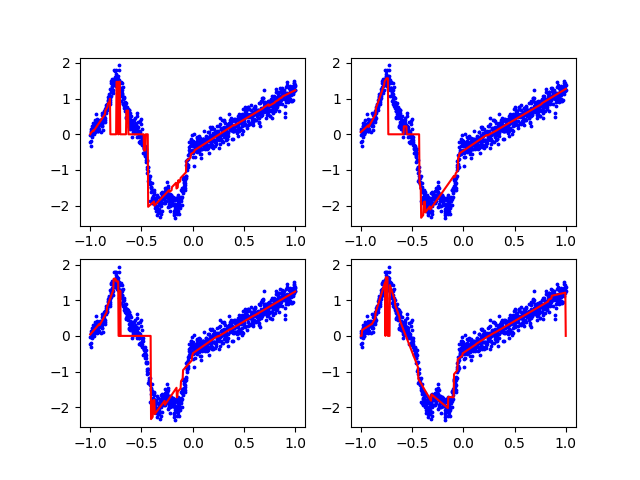
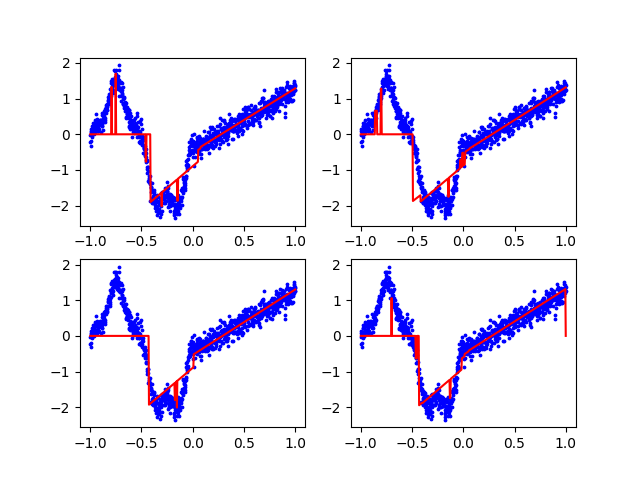
fix n_intial_rules

diff --git a/suprb/suprb.py b/suprb/suprb.py
@@ -186,6 +186,7 @@ class SupRB(BaseRegressor):
         if self.n_initial_rules > 0:
             if self._catch_errors(self._discover_rules, X, y, self.n_initial_rules):
                 return self
+            self._log_to_stdout(f"{len(self.pool_)} initial rules discovered before first step.")
 
         # Main loop
         for self.step_ in range(self.n_iter):
@@ -244,9 +245,18 @@ class SupRB(BaseRegressor):
 
         self._log_to_stdout(f"Generating {n_rules} rules", priority=4)
 
-        # Update the current elitist
-        self.rule_discovery_.elitist_ = self.solution_composition_.elitist()
 
+        # Update the current elitist
+        # try catch block needed for n_initial_rules as elitist is None Type without it
+        elit = None
+        try:
+            elit = self.solution_composition_.elitist()
+        except AttributeError:
+            pass
+        if elit is None:
+            elit = self.elitist_ #Initially dummy elitist: Solution([0, 0, 0], [0, 0, 0], ErrorExperienceHeuristic(), PseudoBIC())
+
+        self.rule_discovery_.elitist_ = elit
         # Update the random state
         self.rule_discovery_.random_state = self.rule_discovery_seeds_[self.step_]
 

diff --git a/examples/example_1_nsga2_infogain.py b/examples/example_1_nsga2_infogain.py
@@ -67,7 +67,7 @@ if __name__ == "__main__":
 
     model = SupRB(
         rule_discovery=NSGA2InfoGain(
-            n_iter=16,
+            n_iter=20,
             mu=16,
             lmbda=64,
             origin_generation=origin.SquaredError(),
@@ -83,7 +83,8 @@ if __name__ == "__main__":
             fitness_objs=[lambda r: r.error_],
             fitness_objs_labels=["Error"],  # infogain objective is added internally
         ),
-        solution_composition=GeneticAlgorithm()
+        solution_composition=GeneticAlgorithm(),
+        n_initial_rules=4,
     )
 
     scores = cross_validate(

diff --git a/suprb/optimizer/rule/nsga2/nsga2.py b/suprb/optimizer/rule/nsga2/nsga2.py
@@ -112,7 +112,7 @@ class NSGA2(MultiRuleDiscovery):
             population_combined = population + children
 
             pareto_fronts = self._fast_nondominated_sort(population_combined)
-            population = self._build_next_population(pareto_fronts)
+            population = self._build_next_population(pareto_fronts) #assigns crowding distance
 
         pareto_front = pareto_fronts[0] if pareto_fronts else []
         if profiler:
